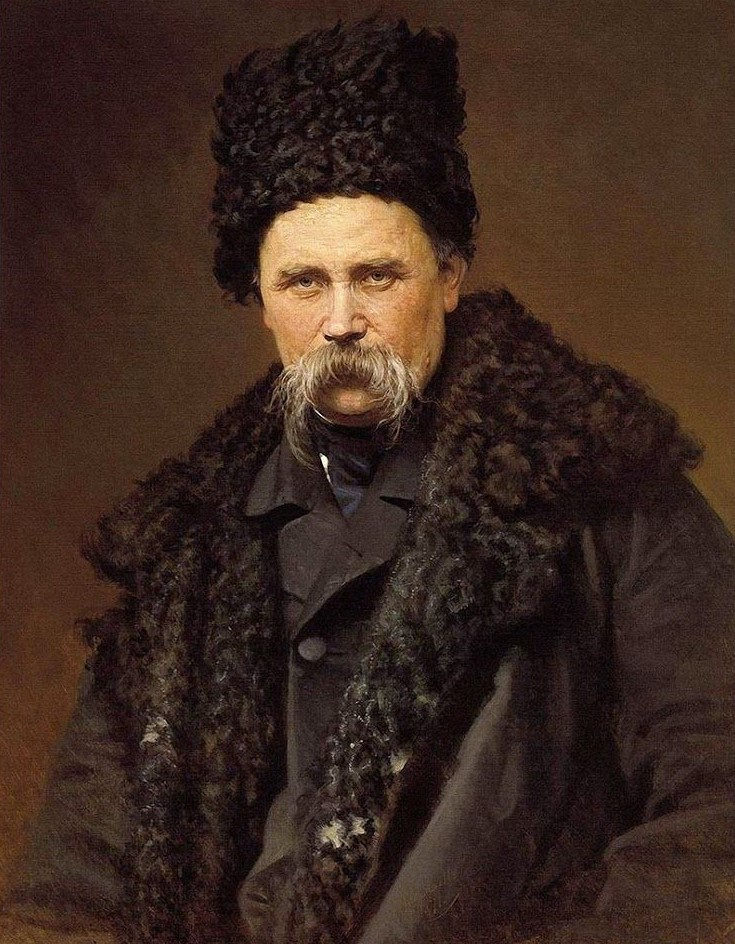
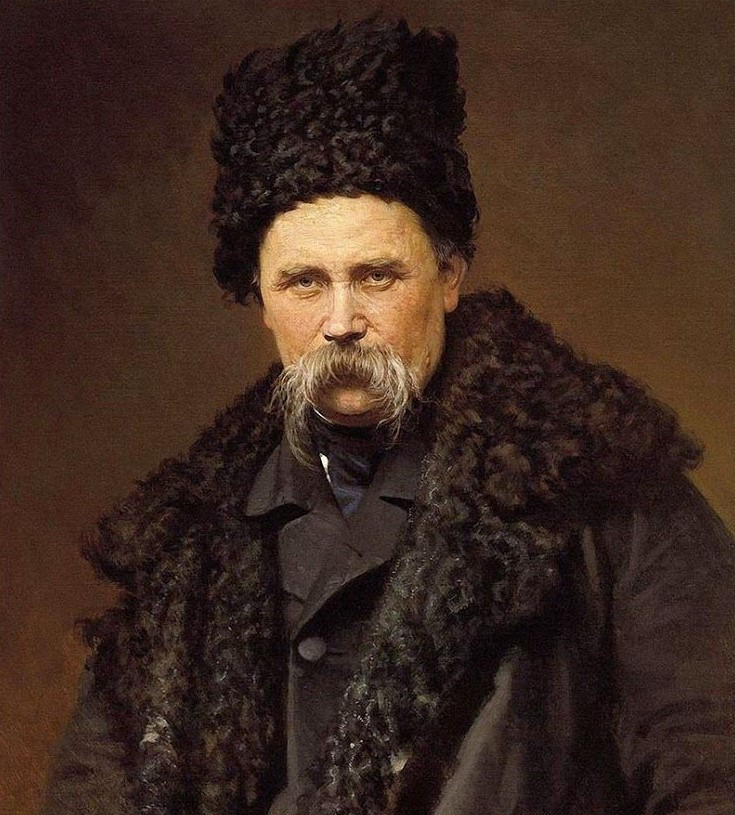
worked in class

Changed region(s): [[0.0, 0.0307, 1.0, 1.0], [0.7184, 0.8282, 0.7782, 0.8896], [0.0, 0.7669, 0.0299, 0.7975]]

diff --git a/index.html b/index.html
@@ -54,8 +54,8 @@
     <h1 class="title">Taras Shevchenko</h1>
     <!--Biography starts here-->
     <div class="row m-3">
-        <div class="col-12 col-lg-4 port"></div>
-        <div class="col-12 col-lg-8"><h4 class="bio">Taras Hryhorovych Shevchenko (1814-1861) was a Ukrainian poet, artist, and political figure born into serfdom. Despite facing hardships, his talent in drawing and writing was recognized, leading to his enrollment at the St. Petersburg Academy of Fine Arts. Shevchenko's collection of poetry, "Kobzar," published in 1840, established him as a key figure in Ukrainian literature, using his works to critique social injustice and advocate for the liberation of his people. His enduring legacy lies in his role as a national symbol of Ukrainian identity, with his poetry and art continuing to inspire generations.</h4></div>
+        <div class="col-12 col-lg-4"><img src="images/portrait.jpg" class="port"></div>
+        <div class="col-12 col-lg-8"><h4 class="bio my-lg-1">Taras Hryhorovych Shevchenko (1814-1861) was a Ukrainian poet, artist, and political figure born into serfdom. Despite facing hardships, his talent in drawing and writing was recognized, leading to his enrollment at the St. Petersburg Academy of Fine Arts. Shevchenko's collection of poetry, "Kobzar," published in 1840, established him as a key figure in Ukrainian literature, using his works to critique social injustice and advocate for the liberation of his people. His enduring legacy lies in his role as a national symbol of Ukrainian identity, with his poetry and art continuing to inspire generations.</h4></div>
     </div>
     <!--Biography ends here-->
       </div>

diff --git a/style.css b/style.css
@@ -11,8 +11,6 @@ body,html{
     text-align: center;
 }
 .port {
-    background-image: url("images/portrait.jpg");
-    background-position: center center;
     max-width: 100%;
     height: auto;
 }
